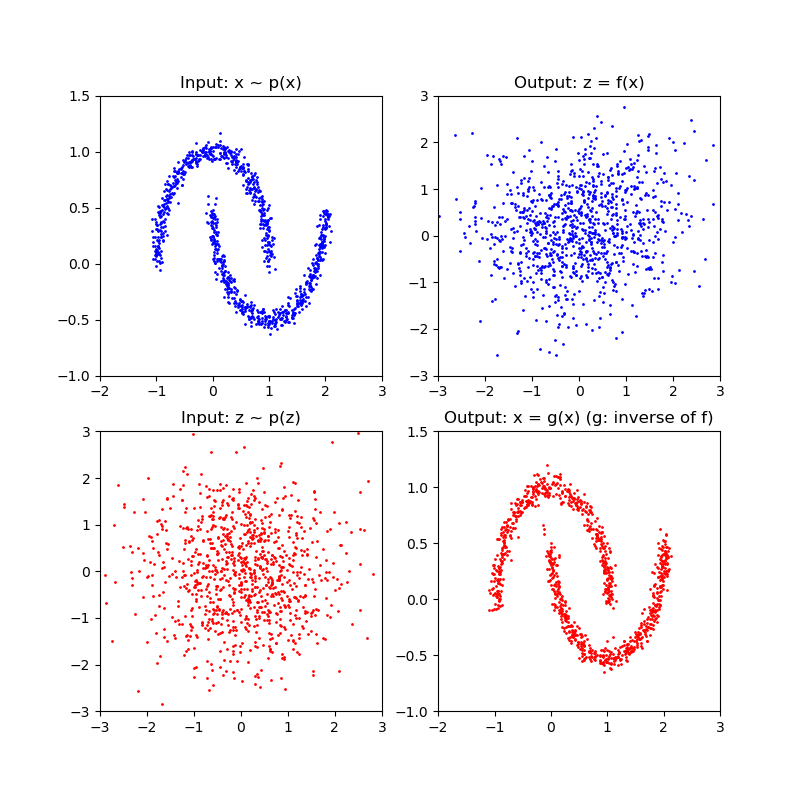
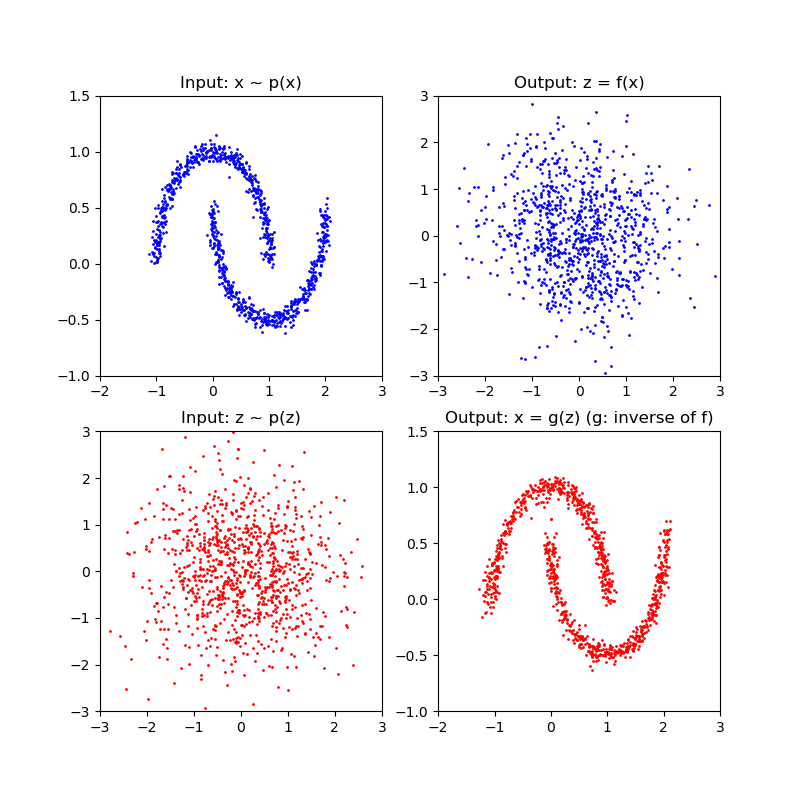
results fiexd

diff --git a/main.py b/main.py
@@ -149,7 +149,7 @@ def sample(epoch):
         x = x.numpy()
 
         subfig_plot(3, z, -3, 3, -3, 3, 'Input: z ~ p(z)', 'r')
-        subfig_plot(4, x, -2, 3, -1, 1.5,'Output: x = g(x) (g: inverse of f)', 'r')
+        subfig_plot(4, x, -2, 3, -1, 1.5,'Output: x = g(z) (g: inverse of f)', 'r')
 
         if epoch % SAVE_PLT_INTERVAL == 0:
             if not os.path.exists('results'):
